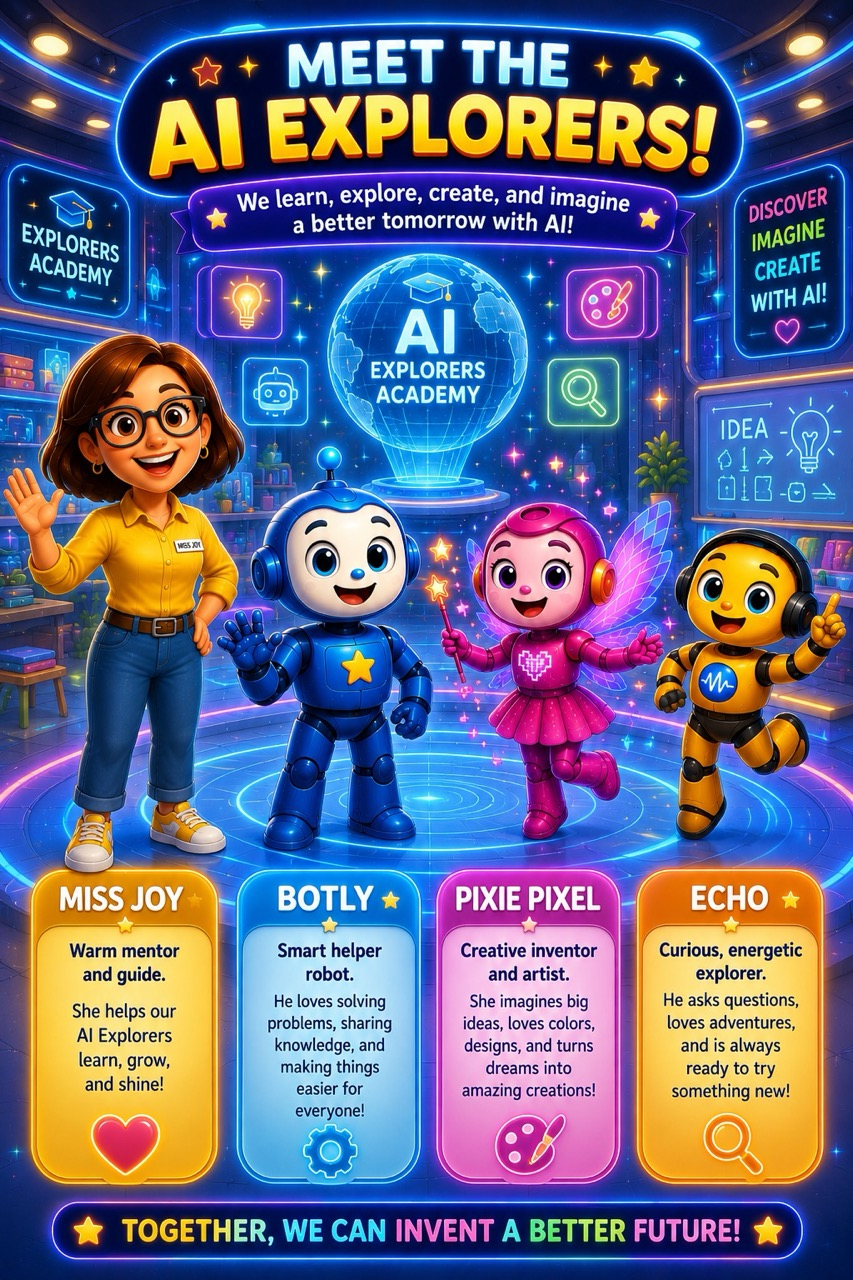
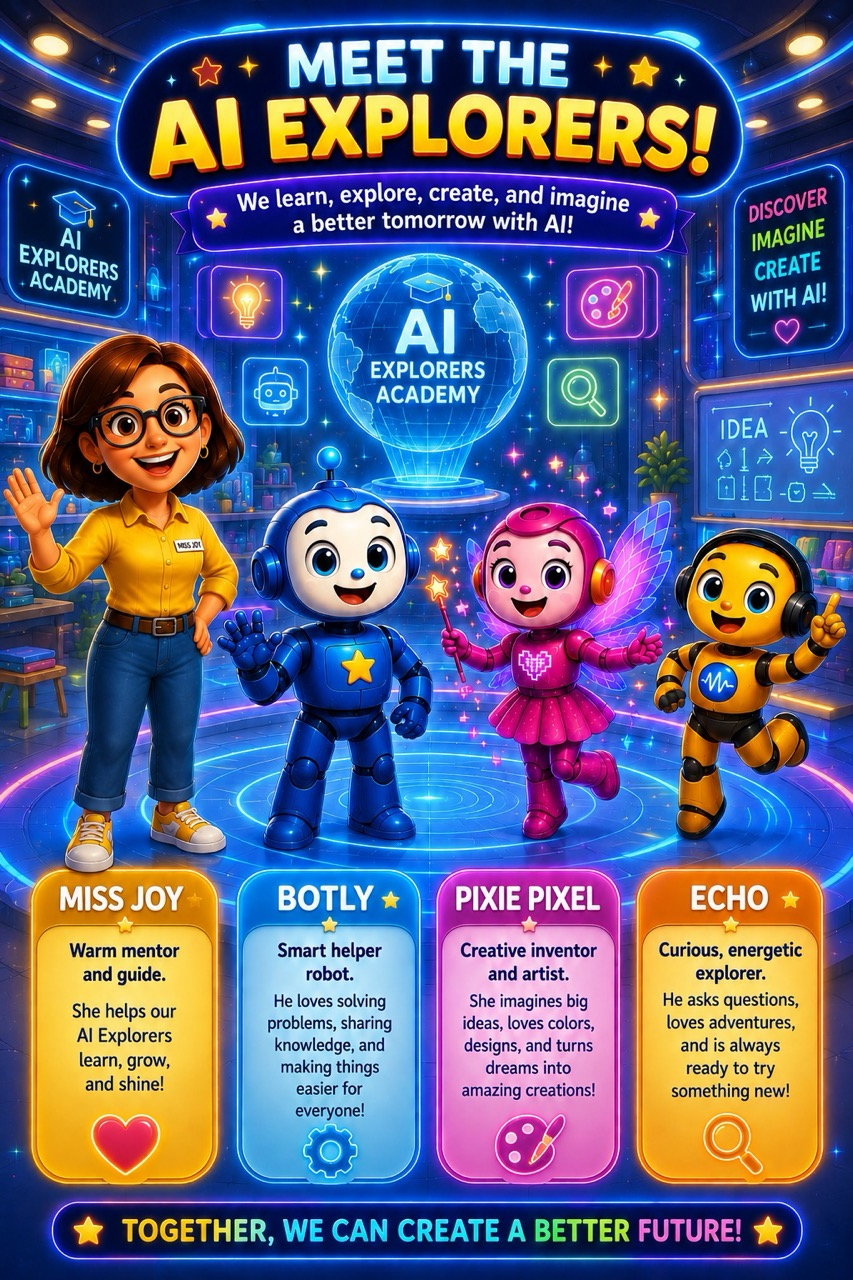
30-days: fix hero featured-frame stacking bug + refresh crew copy
Bug: .exp-book3d and .exp-feat-frame both set display:grid, which overrode the
[hidden] attribute (author CSS beats the UA [hidden]{display:none}), so toggling
element.hidden never hid them — the 3D book and the framed preview rendered stacked
in the grid's auto-rows, making the frame look like it held multiple images.
Fix (CSS only; JS already replaces the single #expFeatImg, never appends):
- .exp-featured > [hidden] { display:none !important } so hidden truly hides
- both modes share one grid cell (grid-area:1/1) so they can never stack
- keep overflow:hidden on the frame (no internal scroll)
Also enlarged the 3D book (clamp 250-350px), trimmed padding, and raised the frame
min-height so the cover is bigger and better centered with less empty space.
Preview img keeps object-fit:contain + max-width/height (no upscaling).

Crew section: refreshed body copy (kept heading, image, layout, bold names). Cache v=33.

diff --git a/css/styles.css b/css/styles.css
@@ -1059,23 +1059,27 @@ a.free-card { color: inherit; text-decoration: none; }
   position: relative; border-radius: var(--radius); border: 1px solid var(--stroke-2);
   background: radial-gradient(120% 100% at 50% 0%, rgba(212,175,79,.10), transparent 60%), var(--navy-2);
   box-shadow: 0 30px 70px rgba(0,0,0,.4);
-  min-height: 430px; display: grid; place-items: center; overflow: hidden; cursor: zoom-in;
+  min-height: 500px; display: grid; place-items: center; overflow: hidden; cursor: zoom-in;
 }
+/* Show ONE active preview only: both modes share a single grid cell (never stack),
+   and [hidden] truly hides — a class `display:grid` would otherwise override it. */
+.exp-featured > .exp-book3d, .exp-featured > .exp-feat-frame { grid-area: 1 / 1; width: 100%; max-height: 100%; }
+.exp-featured > [hidden] { display: none !important; }
 .exp-feat-cap { text-align: center; margin-top: 12px; color: var(--gold); font-family: var(--serif); font-style: italic; font-size: .98rem; letter-spacing: .02em; }
 
 /* 3D book mockup (default featured = cover) — larger, cleaner, soft depth */
-.exp-book3d { position: relative; display: grid; place-items: center; width: 100%; padding: clamp(12px,2vw,24px) 8px; perspective: 1700px; }
+.exp-book3d { position: relative; display: grid; place-items: center; width: 100%; height: 100%; padding: clamp(6px,1.2vw,14px) 8px; perspective: 1700px; }
 .exp-book3d::after { content: ""; position: absolute; width: 56%; height: 58%; left: 22%; top: 21%; background: radial-gradient(ellipse at 50% 50%, rgba(59,166,255,.20), rgba(196,107,255,.14) 48%, rgba(212,175,79,.10) 70%, transparent 78%); filter: blur(46px); z-index: 0; pointer-events: none; }
 .exp-book3d-inner { position: relative; z-index: 1; transform-style: preserve-3d; transform: rotateY(-15deg) rotateX(1.5deg); transition: transform .6s var(--ease); }
 .exp-book3d:hover .exp-book3d-inner { transform: rotateY(-8deg); }
-.exp-book3d-inner img { display: block; width: clamp(238px, 62%, 300px); height: auto; border-radius: 3px 8px 8px 3px; box-shadow: 0 34px 62px rgba(0,0,0,.5); }
+.exp-book3d-inner img { display: block; width: clamp(250px, 74%, 350px); height: auto; border-radius: 3px 8px 8px 3px; box-shadow: 0 34px 62px rgba(0,0,0,.5); }
 .exp-book3d-inner::before { content: ""; position: absolute; inset: 0 auto 0 0; width: 12px; z-index: 3; pointer-events: none; background: linear-gradient(90deg, rgba(0,0,0,.24), rgba(0,0,0,.05) 65%, transparent); border-radius: 3px 0 0 3px; }
 .exp-book3d-inner::after { content: ""; position: absolute; top: 6px; bottom: 6px; right: 3px; width: 8px; transform: translateZ(-8px) translateX(8px); background: linear-gradient(90deg, #e9e2d3, #cec5b0); border-radius: 0 2px 2px 0; box-shadow: 0 0 5px rgba(0,0,0,.2); }
 
 /* Framed preview (thumbs 2–11) */
-.exp-feat-frame { margin: 0; display: grid; place-items: center; width: 100%; padding: clamp(18px,3vw,32px); }
-.exp-feat-media { position: relative; display: inline-block; max-width: 100%; line-height: 0; }
-.exp-feat-media img { display: block; width: auto; height: auto; max-width: 100%; max-height: 430px; object-fit: contain; border-radius: 10px; box-shadow: 0 20px 50px rgba(0,0,0,.5); }
+.exp-feat-frame { margin: 0; display: grid; place-items: center; width: 100%; height: 100%; padding: clamp(16px,3vw,30px); }
+.exp-feat-media { position: relative; display: inline-block; max-width: 100%; max-height: 100%; line-height: 0; }
+.exp-feat-media img { display: block; width: auto; height: auto; max-width: 100%; max-height: 460px; object-fit: contain; border-radius: 10px; box-shadow: 0 20px 50px rgba(0,0,0,.5); }
 .exp-wm { position: absolute; inset: 0; background-repeat: repeat; opacity: .5; pointer-events: none; border-radius: inherit; }
 
 /* Thumbnail strip */
@@ -1104,7 +1108,8 @@ a.free-card { color: inherit; text-decoration: none; }
 
 @media (max-width: 900px) {
   .exp-hero-grid { grid-template-columns: 1fr; }
-  .exp-featured { min-height: 360px; }
+  .exp-featured { min-height: 420px; }
+  .exp-feat-media img { max-height: 380px; }
   .exp-lb-nav { width: 40px; height: 40px; font-size: 1.4rem; }
 }
 .product-info .eyebrow { color: var(--gold); }

diff --git a/30-days-ai-adventures.html b/30-days-ai-adventures.html
@@ -9,7 +9,7 @@
 <link rel="preconnect" href="https://fonts.googleapis.com">
 <link rel="preconnect" href="https://fonts.gstatic.com" crossorigin>
 <link href="https://fonts.googleapis.com/css2?family=Fraunces:ital,opsz,wght@0,9..144,400;0,9..144,600;0,9..144,700;1,9..144,400;1,9..144,600&family=Inter:wght@400;500;600;700&display=swap" rel="stylesheet">
-<link rel="stylesheet" href="css/styles.css?v=32">
+<link rel="stylesheet" href="css/styles.css?v=33">
 </head>
 <body>
 
@@ -333,8 +333,8 @@
         <span class="eyebrow">Your Adventure Guides</span>
         <h2 style="font-size:clamp(1.7rem,3vw,2.4rem);margin:12px 0 18px;">Meet the crew traveling with you.</h2>
         <div class="exp-body">
-          <p>Every AI adventure is guided by a different kind of curiosity.</p>
-          <p><strong style="color:var(--ink);">Miss JOY</strong> helps young Explorers ask questions and think deeply. <strong style="color:var(--ink);">Botly</strong> loves solving problems. <strong style="color:var(--ink);">Pixie Pixel</strong> brings imagination and creativity. <strong style="color:var(--ink);">Echo</strong> is always ready to discover something new.</p>
+          <p>Every great adventure needs a guide — and every AI Explorer brings a different strength to the journey.</p>
+          <p><strong style="color:var(--ink);">Miss JOY</strong> helps young Explorers ask questions, think deeply, and stay curious. <strong style="color:var(--ink);">Botly</strong> loves solving problems and discovering how things work. <strong style="color:var(--ink);">Pixie Pixel</strong> brings imagination, creativity, and big ideas. <strong style="color:var(--ink);">Echo</strong> notices, explores, and is always ready to discover something new.</p>
           <p>Together, they turn big AI ideas into stories children can explore, question, and understand.</p>
         </div>
       </div>
@@ -464,7 +464,7 @@
   </div>
 </footer>
 
-<script src="js/main.js?v=32"></script>
+<script src="js/main.js?v=33"></script>
 <script>
 /* 30 Days of AI Adventures — hero product gallery + lightbox (page-scoped) */
 (function () {